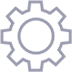
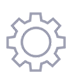
Various fixes

diff --git a/app/components/Pages/PlayersPage.js b/app/components/Pages/PlayersPage.js
@@ -11,8 +11,8 @@ import { viewChallengeRequest } from '../../actions/challenges';
 import { showLoader } from '../../actions/loader';
 import getFilteredPlayers from '../../selectors/players';
 import defaultAvatar from '../../images/default_avatar.png';
-import challengesIcon from '../../images/challenges_icon.png';
-import teamsIcon from '../../images/teams_icon.png';
+import challengesIconWide from '../../images/challenges_icon_wide.png';
+import teamsIconWide from '../../images/teams_icon_wide.png';
 import TopFilters from './PlayersPage/TopFilters';
 
 const s3URL = 'https://s3-eu-west-1.amazonaws.com/moki-avatars/';
@@ -100,7 +100,7 @@ export class PlayersPage extends Component {
                                                 {player.challenges.length >
                                                 0 ? (
                                                     <img
-                                                        src={challengesIcon}
+                                                        src={challengesIconWide}
                                                         className="icon"
                                                         alt="icon"
                                                     />
@@ -128,7 +128,7 @@ export class PlayersPage extends Component {
                                             <td className="align-right">
                                                 {player.teams.length > 0 ? (
                                                     <img
-                                                        src={teamsIcon}
+                                                        src={teamsIconWide}
                                                         className="icon"
                                                         alt="icon"
                                                     />

diff --git a/app/components/Pages/PairBandsPage.js b/app/components/Pages/PairBandsPage.js
@@ -9,8 +9,8 @@ import { showLoader } from '../../actions/loader';
 import { Header } from '../Header';
 import { PageTitle } from '../PageTitle';
 import defaultAvatar from '../../images/default_avatar.png';
-import challengesIcon from '../../images/challenges_icon.png';
-import teamsIcon from '../../images/teams_icon.png';
+import challengesIconWide from '../../images/challenges_icon_wide.png';
+import teamsIconWide from '../../images/teams_icon_wide.png';
 
 const s3URL = 'https://s3-eu-west-1.amazonaws.com/moki-avatars/';
 
@@ -137,7 +137,7 @@ export class PairBandsPage extends Component {
                                                 {player.challenges.length >
                                                 0 ? (
                                                     <img
-                                                        src={challengesIcon}
+                                                        src={challengesIconWide}
                                                         className="icon"
                                                         alt="icon"
                                                     />
@@ -158,7 +158,7 @@ export class PairBandsPage extends Component {
                                             <td className="align-right">
                                                 {player.teams.length > 0 ? (
                                                     <img
-                                                        src={teamsIcon}
+                                                        src={teamsIconWide}
                                                         className="icon"
                                                         alt="icon"
                                                     />

diff --git a/app/components/Pages/TeamsPage.js b/app/components/Pages/TeamsPage.js
@@ -10,7 +10,7 @@ import { viewChallengeRequest } from '../../actions/challenges';
 import { showLoader } from '../../actions/loader';
 import getFilteredTeams from '../../selectors/teams';
 import defaultAvatar from '../../images/default_avatar.png';
-import challengesIcon from '../../images/challenges_icon.png';
+import challengesIconWide from '../../images/challenges_icon_wide.png';
 import playersIconWide from '../../images/players_icon_wide.png';
 import TopFilters from './TeamsPage/TopFilters';
 
@@ -90,7 +90,7 @@ export class TeamsPage extends Component {
                                             <td>
                                                 {team.challenges.length > 0 ? (
                                                     <img
-                                                        src={challengesIcon}
+                                                        src={challengesIconWide}
                                                         className="icon"
                                                         alt="icon"
                                                     />

diff --git a/app/components/Pages/ChallengesPage.js b/app/components/Pages/ChallengesPage.js
@@ -12,7 +12,7 @@ import {
 import { viewTeamRequest } from '../../actions/teams';
 import { showLoader } from '../../actions/loader';
 import defaultAvatar from '../../images/default_avatar.png';
-import teamsIcon from '../../images/teams_icon.png';
+import teamsIconWide from '../../images/teams_icon_wide.png';
 import playersIconWide from '../../images/players_icon_wide.png';
 import TopFilters from './ChallengesPage/TopFilters';
 import getFilteredChallenges from '../../selectors/challenges';
@@ -115,7 +115,7 @@ export class ChallengesPage extends Component {
                                                 ) : (
                                                     <div>
                                                         <img
-                                                            src={teamsIcon}
+                                                            src={teamsIconWide}
                                                             className="icon"
                                                             alt="icon"
                                                         />

diff --git a/app/components/Pages/ChallengePage/PageHeader.js b/app/components/Pages/ChallengePage/PageHeader.js
@@ -1,7 +1,7 @@
 import React, { Component } from 'react';
 import moment from 'moment';
 import defaultAvatar from '../../../images/default_avatar.png';
-import teamsIcon from '../../../images/teams_icon.png';
+import teamsIconWide from '../../../images/teams_icon_wide.png';
 import playersIconWide from '../../../images/players_icon_wide.png';
 
 const s3URL = 'https://s3-eu-west-1.amazonaws.com/moki-avatars/';
@@ -52,7 +52,7 @@ export default class PageHeader extends Component {
                         </div>
                     ) : (
                         <div className="row">
-                            <img src={teamsIcon} className="small-icon" />
+                            <img src={teamsIconWide} className="small-icon" />
                             <span>
                                 {`${this.props.challenge.teams.length} Team`}
                                 {this.props.challenge.teams.length > 1

diff --git a/app/styles/components/_table.scss b/app/styles/components/_table.scss
@@ -17,6 +17,10 @@
         &:last-child {
             // border-bottom: none;
         }
+
+        &:hover {
+            background: #292e6b;
+        }
     }
 
     td {
@@ -82,7 +86,7 @@
     }
 
     .icon {
-        height: 3.5vmin;
+        height: 4vmin;
         margin-right: 1vmin;
         vertical-align: middle;
     }
